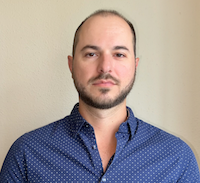
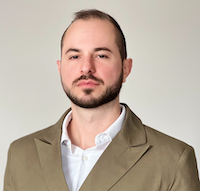
Update profile photo and other info.

diff --git a/index.html b/index.html
@@ -240,7 +240,7 @@
                         <h2 class="heading sr-only">Basic Information</h2>
                         <div class="content">
                             <ul class="list-unstyled">
-                                <li><i class="fas fa-map-marker-alt"></i><span class="sr-only">Location:</span>Miami, FL, USA</li>
+                                <li><i class="fas fa-map-marker-alt"></i><span class="sr-only">Location:</span>Fort Lauderdale, FL, USA</li>
                                 <li><i class="fas fa-envelope"></i><span class="sr-only">Email:</span><a href="mailto:lucasarthurpenz@gmail.com">lucasarthurpenz@gmail.com</a></li>
 <!--                                <li><i class="fas fa-link"></i><span class="sr-only">Website:</span><a href="#">https://www.website.com</a></li>-->
                             </ul>
@@ -373,7 +373,7 @@
                         <div class="content">
                             <div class="item">                      
                                 <h3 class="title"><i class="fas fa-graduation-cap"></i> MSc Computer Science</h3>
-                                <h4 class="university">Maharishi International University <span class="year">(2020-2022)</span></h4>
+                                <h4 class="university">Maharishi International University <span class="year">(2020-2023)</span></h4>
                             </div><!--//item-->
                             <div class="item">
                                 <h3 class="title"><i class="fas fa-graduation-cap"></i> MBA in Project Management</h3>
@@ -394,7 +394,7 @@
                             <ul class="list-unstyled">
                                 <li class="item">
                                     <span class="title"><strong>English:</strong></span>
-                                    <span class="level">Full Professional Proficiency <br class="visible-xs"/><i class="fas fa-star"></i> <i class="fas fa-star"></i> <i class="fas fa-star"></i> <i class="fas fa-star"></i> <i class="fas fa-star"></i> </span>
+                                    <span class="level">Fluent <br class="visible-xs"/><i class="fas fa-star"></i> <i class="fas fa-star"></i> <i class="fas fa-star"></i> <i class="fas fa-star"></i> <i class="fas fa-star"></i> </span>
                                 </li><!--//item-->
                                 <li class="item">
                                     <span class="title"><strong>Portuguese:</strong></span>
